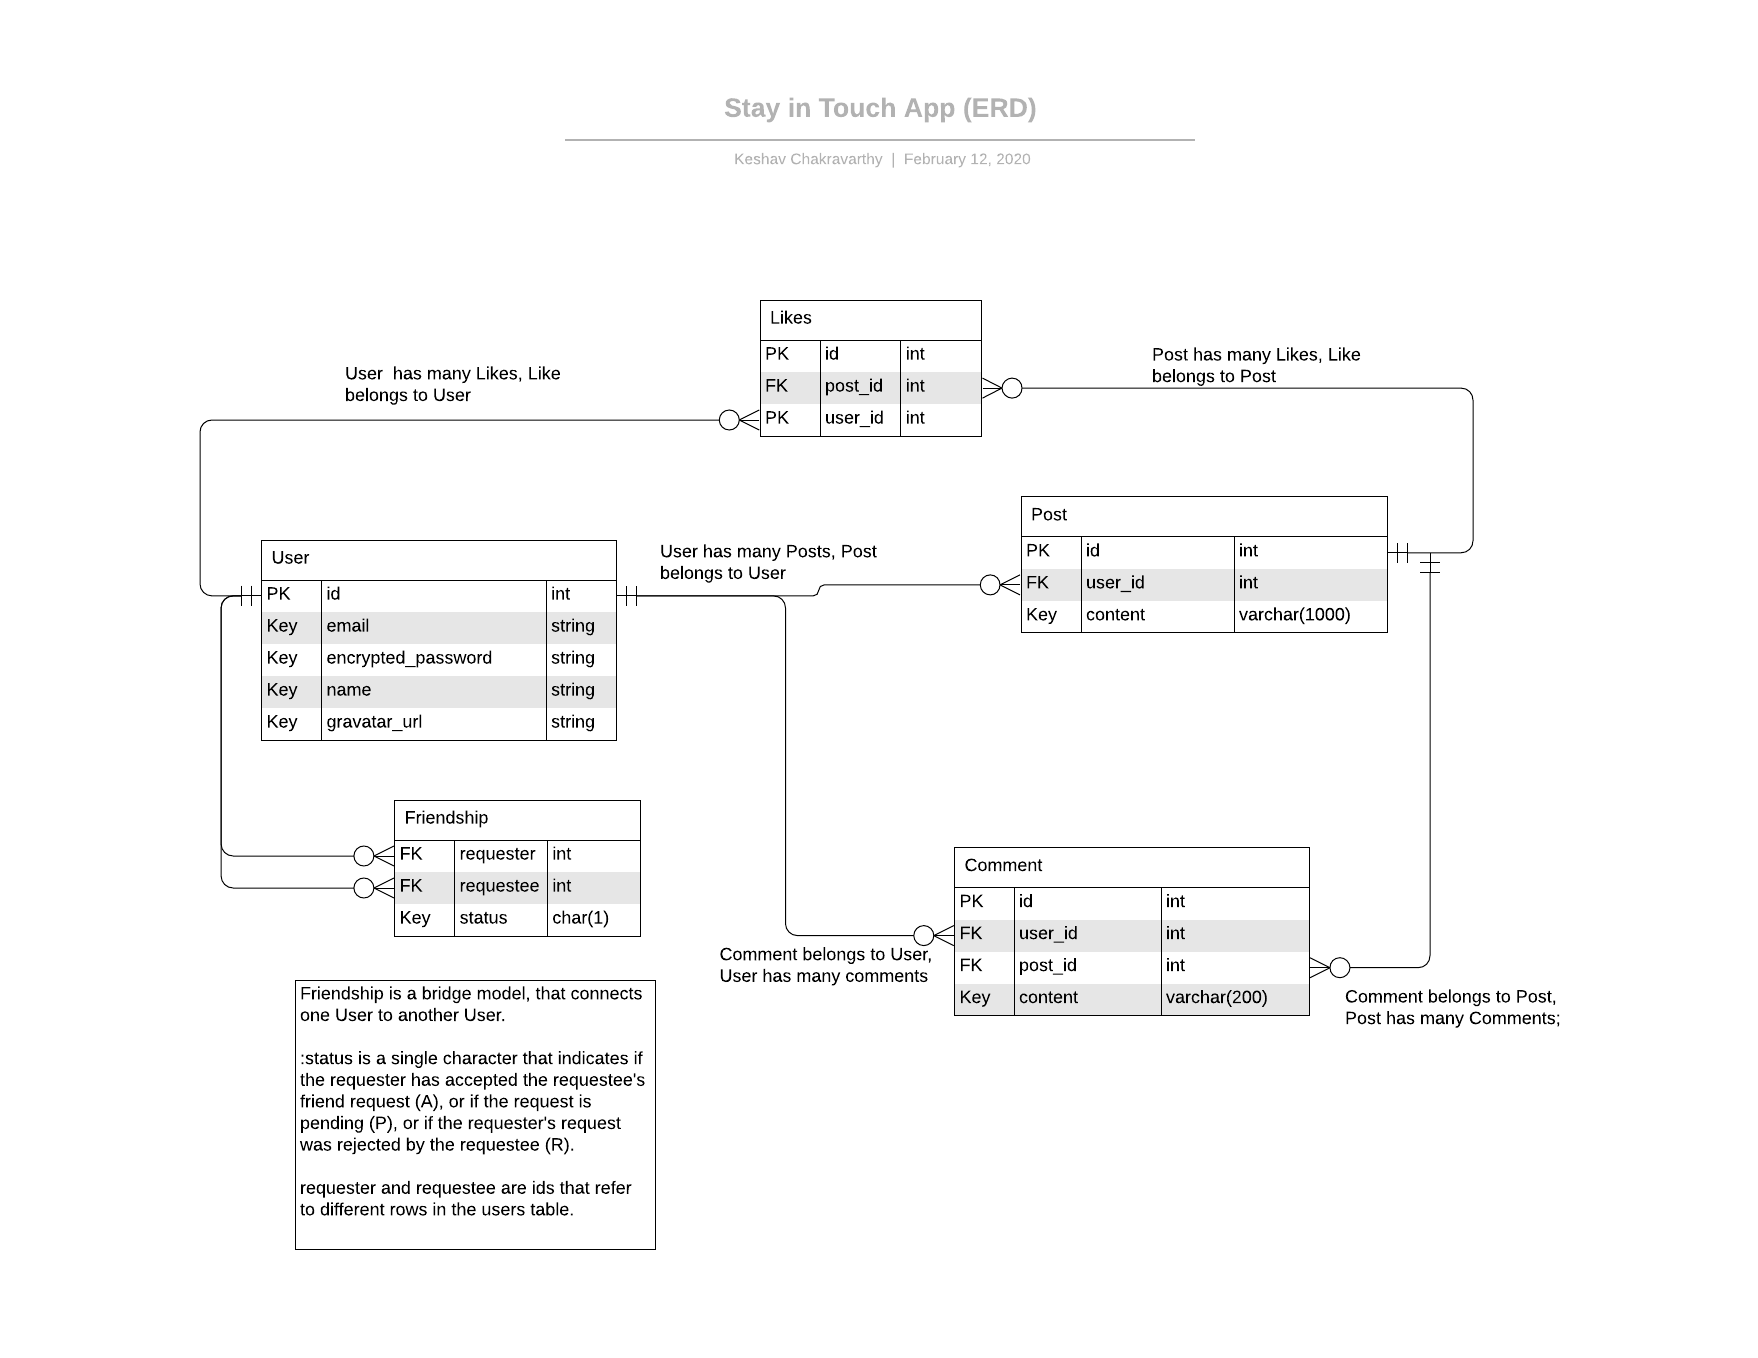
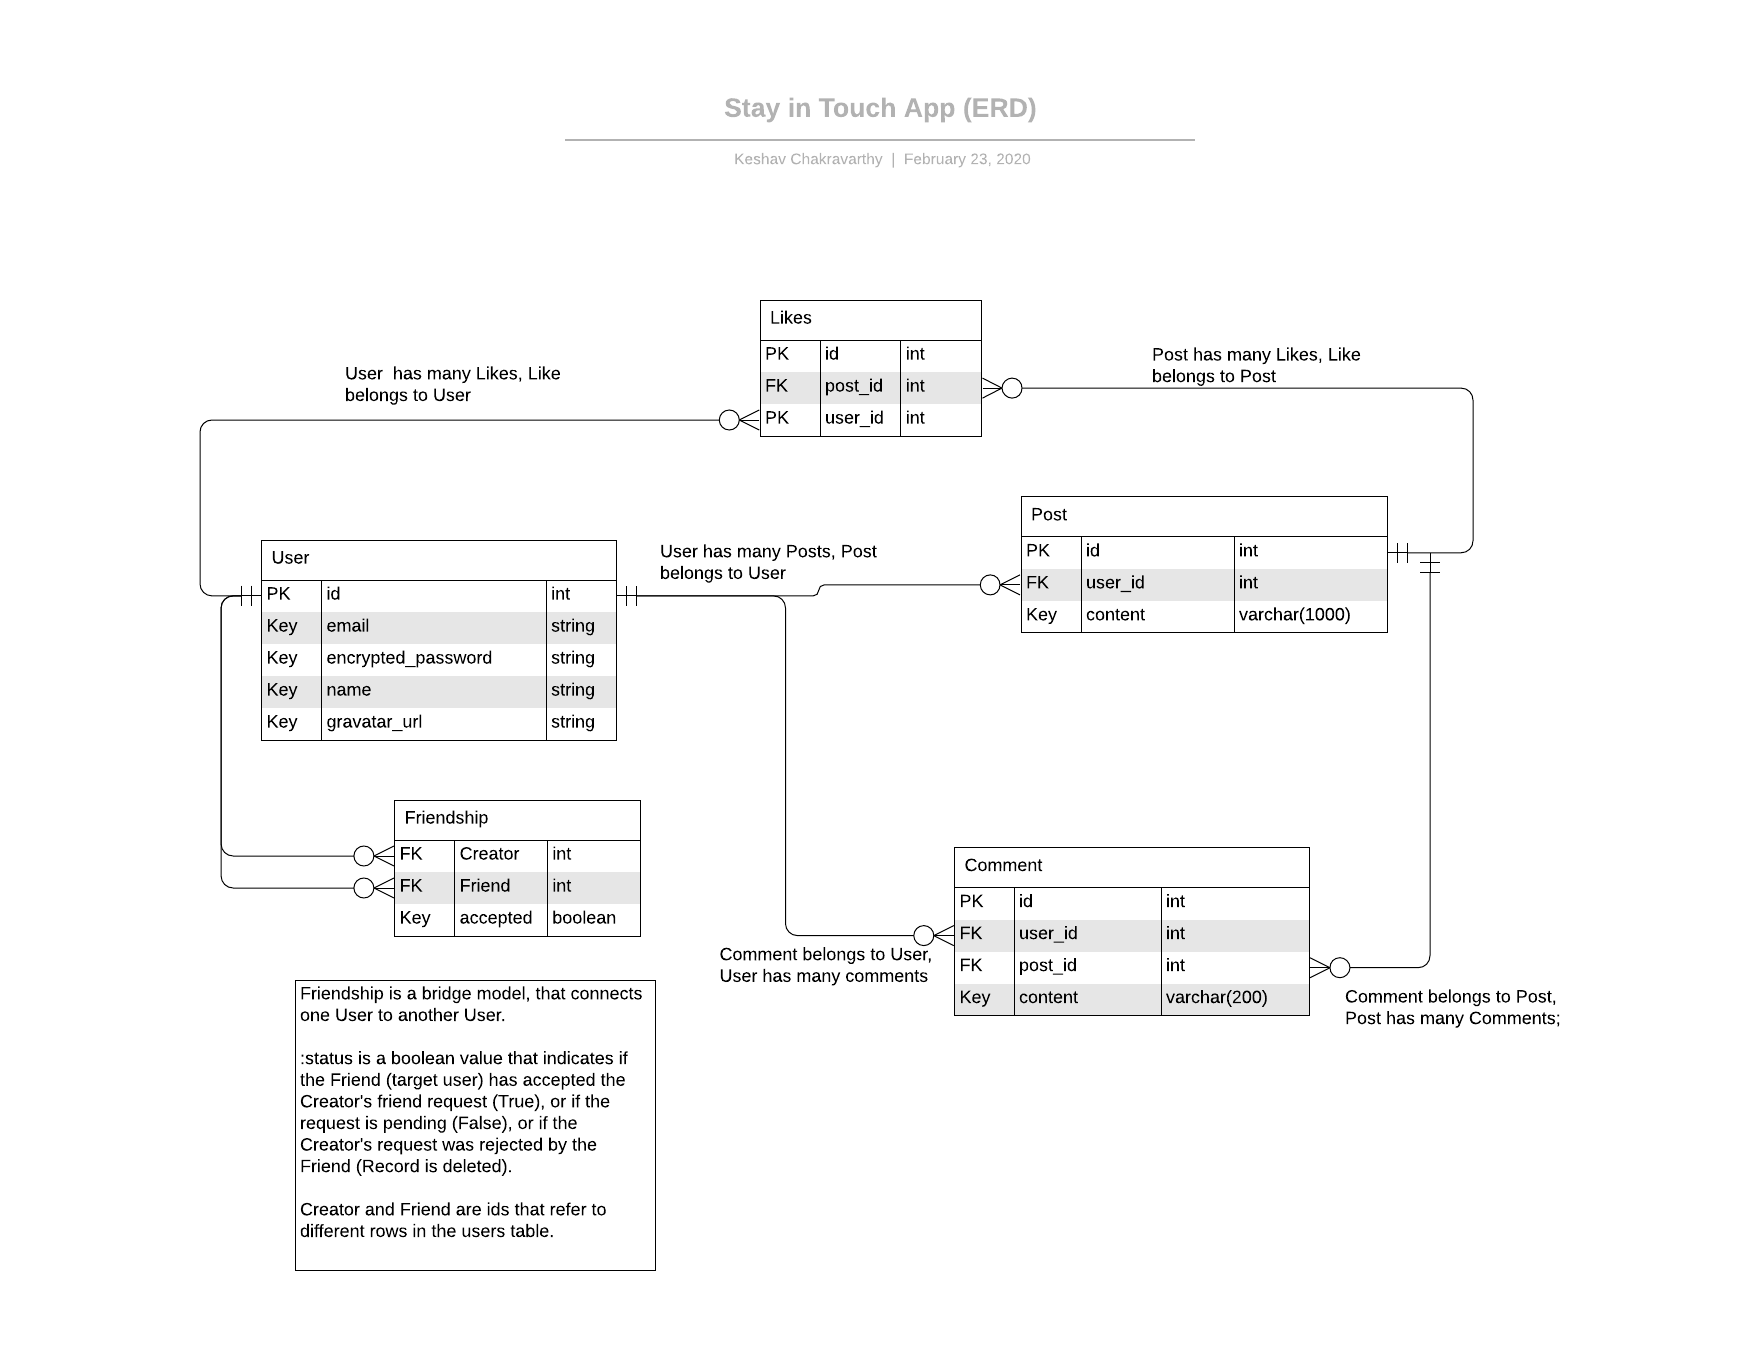
Changes in design, README update

Changed region(s): [[0.1536, 0.7732, 0.3686, 0.9278], [0.2457, 0.6186, 0.3379, 0.6804]]

diff --git a/README.md b/README.md
@@ -114,3 +114,7 @@ The above code executes three queries
 3. Get all the creators of those friendship requests
 
 Goal: To reduce this to 1 SQL query.
+
+### Changelog
+
+ERD was changed to reflect changes in Friendship design and implementation
